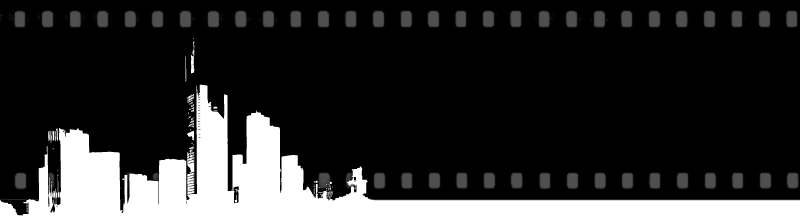
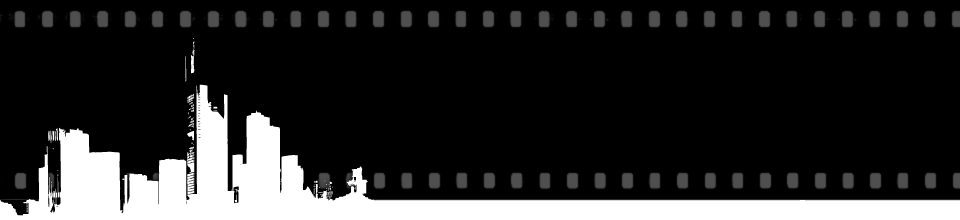
Changed base template width to 960px
- Also changed view_event.html+css so that the social buttons use the
   newly won space, they are now all in one line.
 - header.png is now 960px, too. Already optimized with optipng -o7.

diff --git a/templates/events/view_event.html b/templates/events/view_event.html
@@ -10,13 +10,11 @@
 <p>Weitere Informationen: <a href="{{event.url}}">{{event.url}}</a><small> (Externer Link)</small></p>
 </div>
 <div id="content_sidebar">
-<a class="exportbtn" href="/events/export/ical/{{event.pk}}/"><img src="/media/ical.gif" alt="Als iCal exportieren" title="Als iCal exportieren"></a><br>
+<a class="exportbtn" href="/events/export/ical/{{event.pk}}/"><img src="/media/ical.gif" alt="Als iCal exportieren" title="Als iCal exportieren"></a>
 <a class="exportbtn" href="http://www.google.com/calendar/event?action=TEMPLATE&amp;text={{ event.name|urlencode }}&amp;dates={{ event.date_start|date:"Ymd" }}/{{ event.date_end|date:"Ymd" }}&amp;sprop=website:http:%3A%2F%2Fffmff.de{{ event.get_absolute_url|urlencode }}&amp;sprop=name:FilmFestivals%20in%20Frankfurt" target="_self" rel="nofollow" title="Via Google Calendar teilen"><img src="/media/gcal.gif" alt="Zum Google Calendar hinzuf&uuml;gen" title="Zum Google Calendar hinzuf&uuml;gen"></a>
-<table class="social_sharing">
 <!-- AddThis Button BEGIN -->
-<a class="addthis_button" href="http://www.addthis.com/bookmark.php?v=250&amp;username=xa-4c51b4c9586cea52"><img src="http://s7.addthis.com/static/btn/sm-share-en.gif" width="83" height="16" alt="Bookmark and Share" style="border:0"/></a><script type="text/javascript" src="http://s7.addthis.com/js/250/addthis_widget.js#username=xa-4c51b4c9586cea52"></script>
+<a class="addthis_button exportbtn" href="http://www.addthis.com/bookmark.php?v=250&amp;username=xa-4c51b4c9586cea52"><img src="http://s7.addthis.com/static/btn/sm-share-en.gif" width="83" height="16" alt="Bookmark and Share" style="border:0"/></a><script type="text/javascript" src="http://s7.addthis.com/js/250/addthis_widget.js#username=xa-4c51b4c9586cea52"></script>
 <!-- AddThis Button END -->
-</table>
 <hr class="sidebar_seperator">
 {% if event.location %}<div id="event_address">
 {{ event.location|markdown }}

diff --git a/media/awesomeness.css b/media/awesomeness.css
@@ -6,7 +6,7 @@ body {
 	font-family: "Arial", "Helvetica", "Verdana", sans-serif;
 	font-size: 100.01%;
 	background-color: white;
-	width: 800px;
+	width: 960px;
 	margin: 0 auto;
 	margin-top: 2em;
 }
@@ -34,12 +34,12 @@ div#content {
 	background-color: white;
 	padding-right: 8px;
 	padding-left: 8px;
-	width: 816px;
+	width: 976px;
 	voice-family: "\"}\"";	/* alle folgenden Deklarationen
 							innerhalb des Deklarationsblockes
 							werden von IE 5.x/Win ignoriert */
 	voice-family:inherit;
-	width:784px;
+	width:944px;
 
 }
 
@@ -68,12 +68,12 @@ div#navigation {
 	padding-left:8px;
 	line-height: 1.2em;
 	vertical-align: middle;
-	width:816px;
+	width:976px;
 	voice-family: "\"}\"";	/* alle folgenden Deklarationen
 							innerhalb des Deklarationsblockes
 							werden von IE 5.x/Win ignoriert */
 	voice-family:inherit;
-	width:784px;
+	width:944px;
 }
 
 div#such_bereich {
@@ -103,18 +103,6 @@ div#footer {
 	border-top: 1px solid;
 	background-color: white;
 	clear: both;
-}
-
-.social_sharing {
-	border: 0;
-}
-
-.social_sharing a img {
-	opacity: 0.5;
-}
-
-.social_sharing a:hover img {
-	opacity: 1;
 }
 
 a.exportbtn img {
